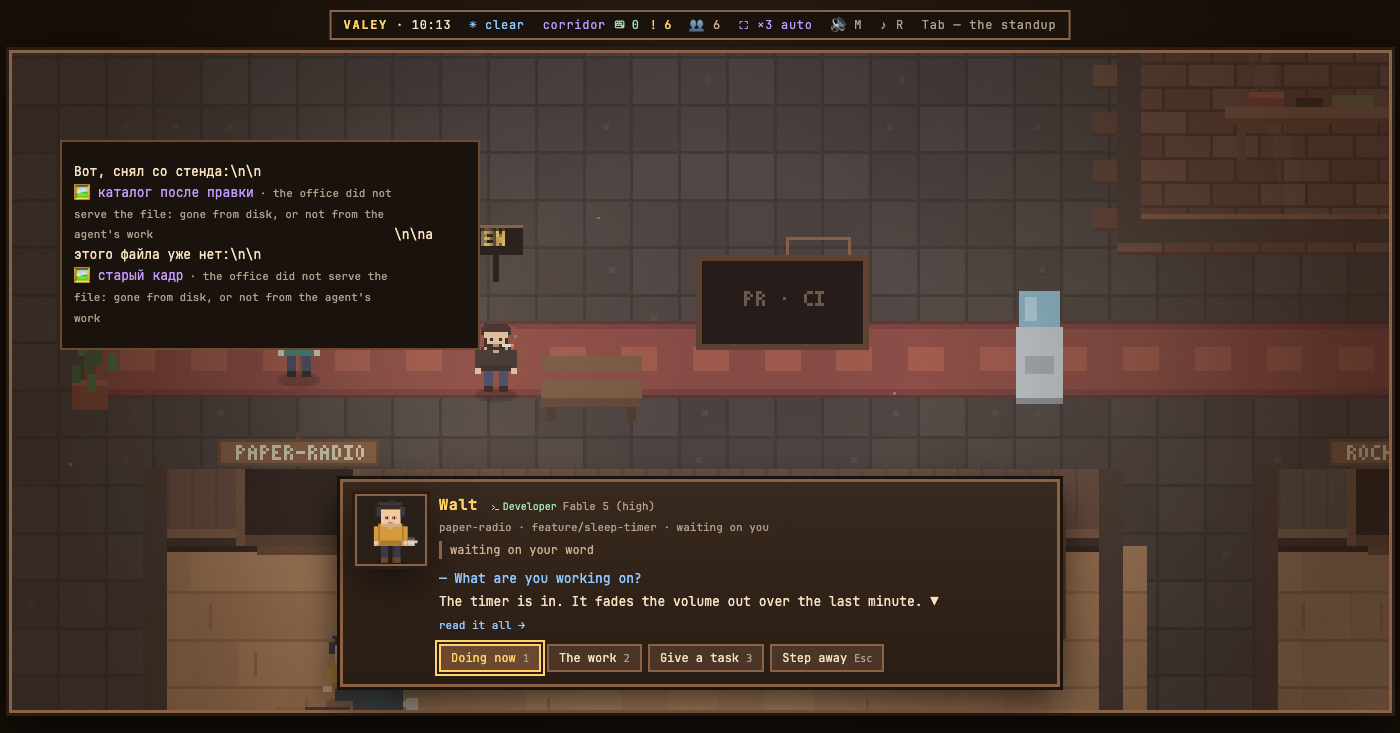
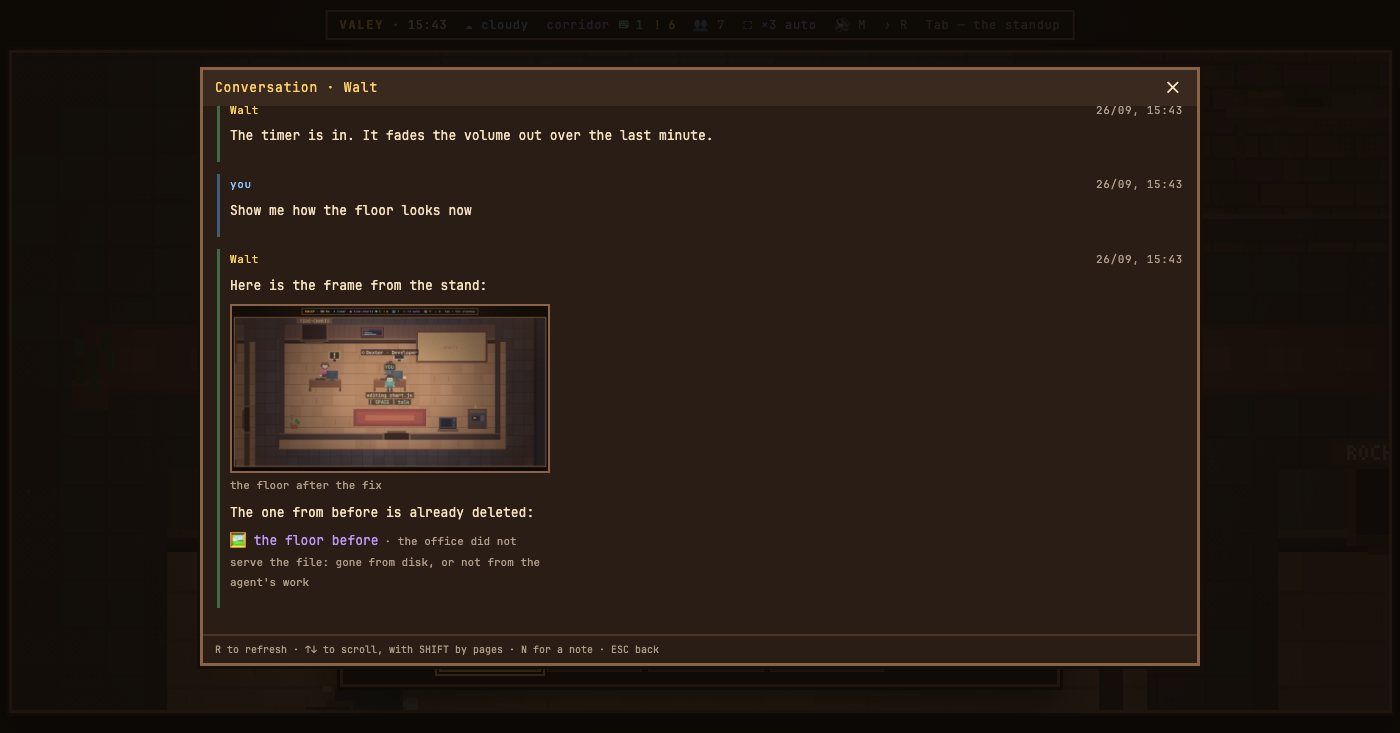
docs(notes): the reply-image picture shows the picture, and the note says what now opens

diff --git a/notes/unreleased/reply-image.md b/notes/unreleased/reply-image.md
@@ -4,12 +4,12 @@ scope: office
 shots:
   - id: reply-image
     url: "#room=standup"
-    keys: "Enter,wait:2500,Tab,wait:900,Enter,wait:900,wait:1200"
-    setup: "(() => { const t = setInterval(async () => { const ui = window.__ui; const dlg = document.querySelector('#dialog'); if (!ui || !dlg || dlg.hidden) return; clearInterval(t); const md = await import('/markdown.js'); const host = document.createElement('div'); host.className = 'md'; host.style.cssText = 'position:fixed;left:60px;top:140px;width:420px;background:#1a120c;padding:12px;z-index:99;border:2px solid #6b4a2f'; host.innerHTML = md.renderMarkdown('Вот, снял со стенда:\\n\\n![каталог после правки](/opt/valey-demo/catalog.png)\\n\\nа этого файла уже нет:\\n\\n![старый кадр](/opt/valey-demo/old.png)'); document.body.appendChild(host); ui.bindPictures(host); }, 200); })()"
+    picture: c
+    keys: "Enter,wait:2500,Tab,wait:900,Enter,wait:1200,tap:#readAll,wait:2500,shift-ArrowDown,wait:800"
 ---
 
 An agent that draws something — a rendered frame, a screenshot of the layout it has just fixed — sends it back as `![подпись](/путь/кадр.png)`. Until now the office printed that line as it stood: the path was visible, the picture was not. In the conversation the file is now drawn where the line used to be, with its name under it; a click opens it in the same viewer the files on the desk use, with zoom and arrows.
 
-Nothing new is unlocked to see it. The picture comes through `/api/file`, which serves only what the agent actually touched in its work, and for a guest only while the conversation itself is open. A path the office will not serve — a file already deleted, or one that was never the agent's — stays a line with the name and the reason rather than an empty frame.
+The picture comes through `/api/file`, which serves an agent's own work: files it opened or wrote, and now also a picture it names in its own reply — png, jpg, gif or webp, by a full path — since a picture an agent generates or renders with a script reaches the transcript with no tool touching it. A guest sees it only while the conversation itself is open. A path the office will not serve — a file already deleted, or one never named by the agent — stays a line with the name and the reason rather than an empty frame.
 
 In the card the reply is still typed out as plain text, so a picture there is named — `🖼 каталог-после-правки.png` — and the picture itself waits in the conversation.
